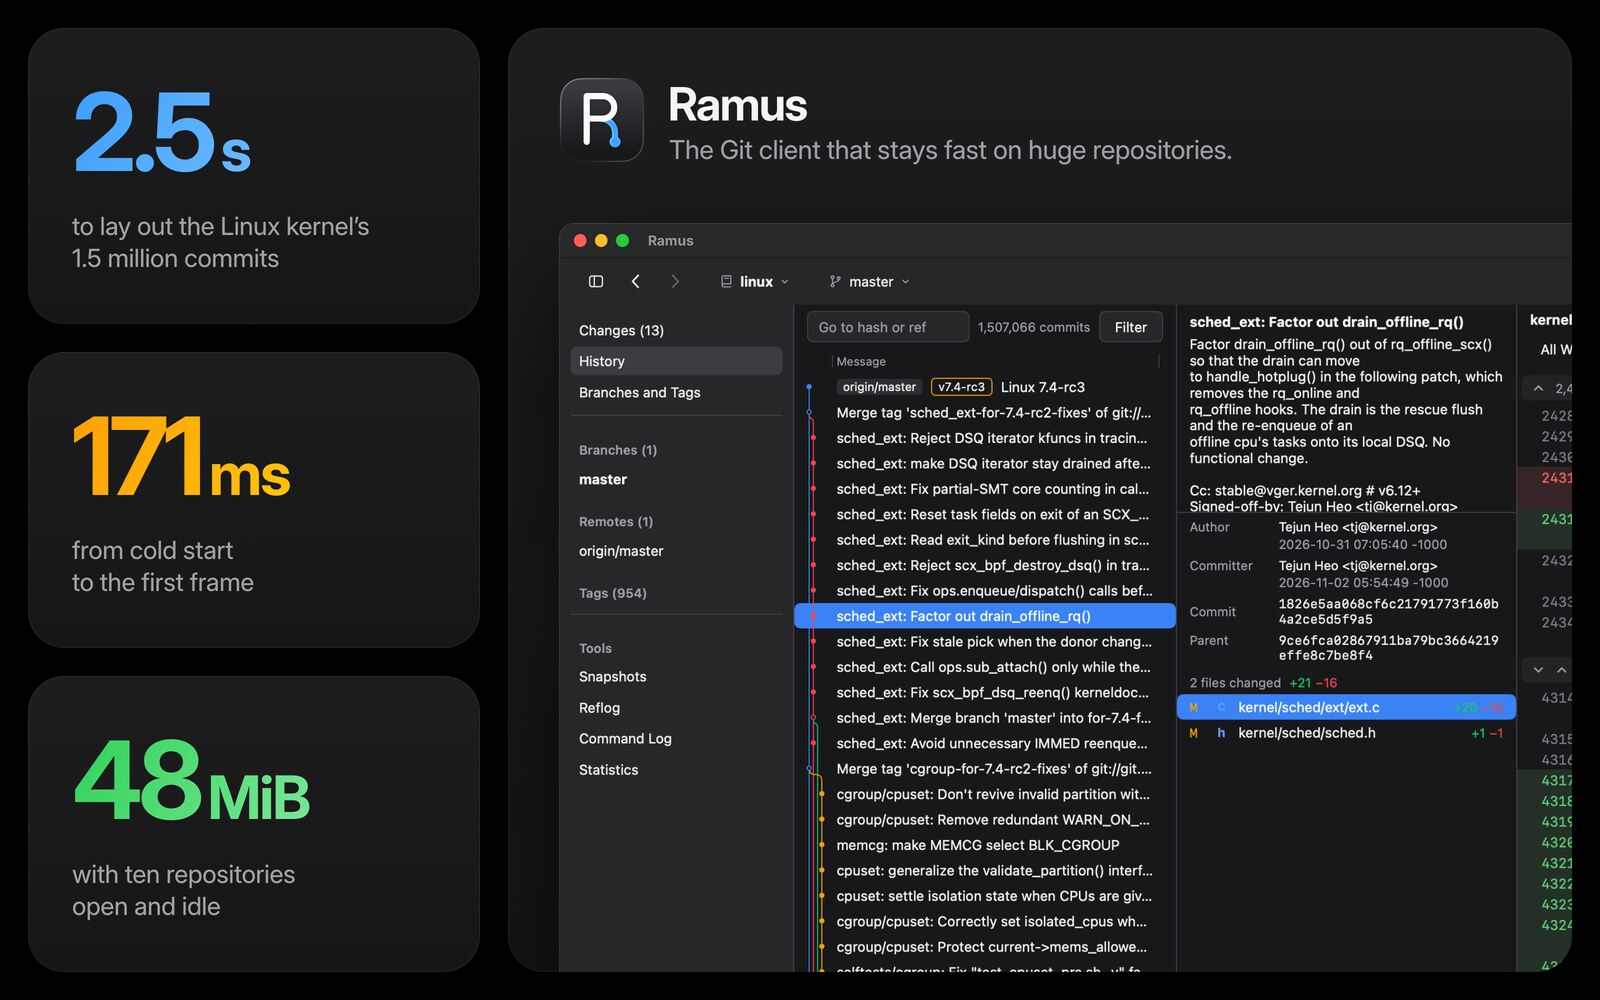
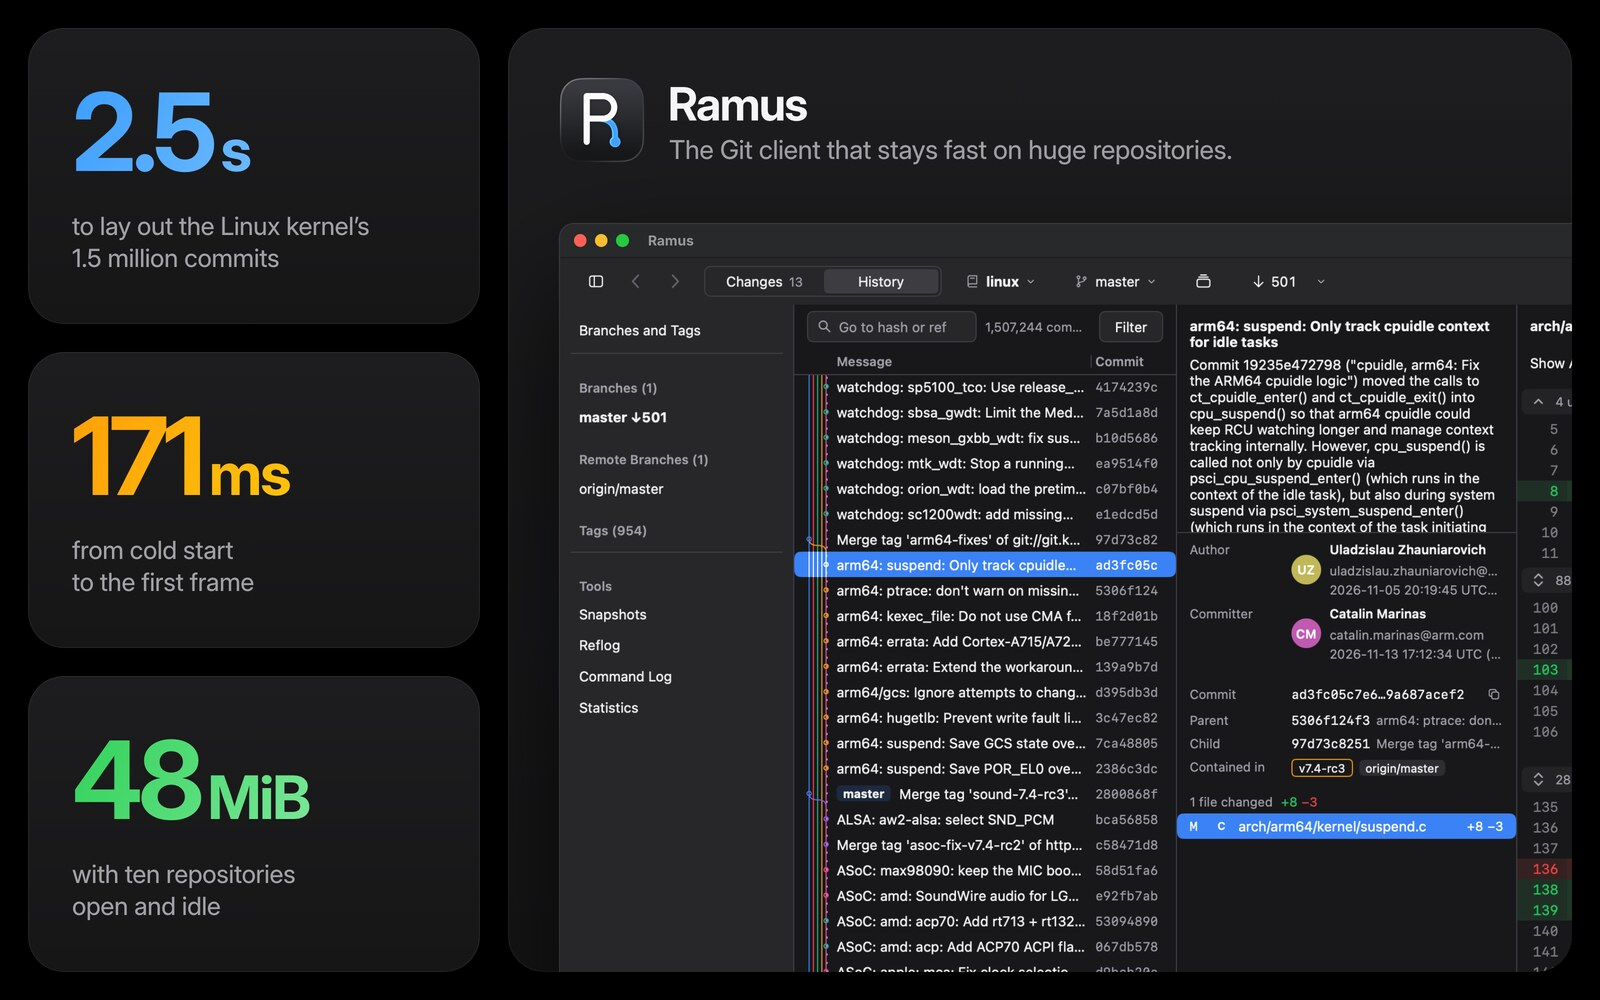
chore(workspace): draw the product cards again with the bar's Changes and History switch
The screenshots show the bar's switch and the shorter sidebar. The
commit they chose fell off the first screen as the kernel fixture moved
on; they now choose one that is on it, which the README names.

diff --git a/assets/cards/README.md b/assets/cards/README.md
@@ -31,7 +31,7 @@ app's own views at 1440x900 and twice the scale. `TestScreenshot` in
 ```bash
 RAMUS_SCREENSHOT=$PWD/assets/cards/history-dark.png \
 RAMUS_SCREENSHOT_REPO=~/Projects/ramus-fixtures/linux \
-RAMUS_SCREENSHOT_CLICK='sched_ext: Factor out drain_offline_rq()|kernel/sched/ext/ext.c' \
+RAMUS_SCREENSHOT_CLICK='arm64: suspend: Only track cpuidle context for idle tasks|arch/arm64/kernel/suspend.c' \
 go test ./internal/ui -run '^TestScreenshot$' -count=1
 ```
 
